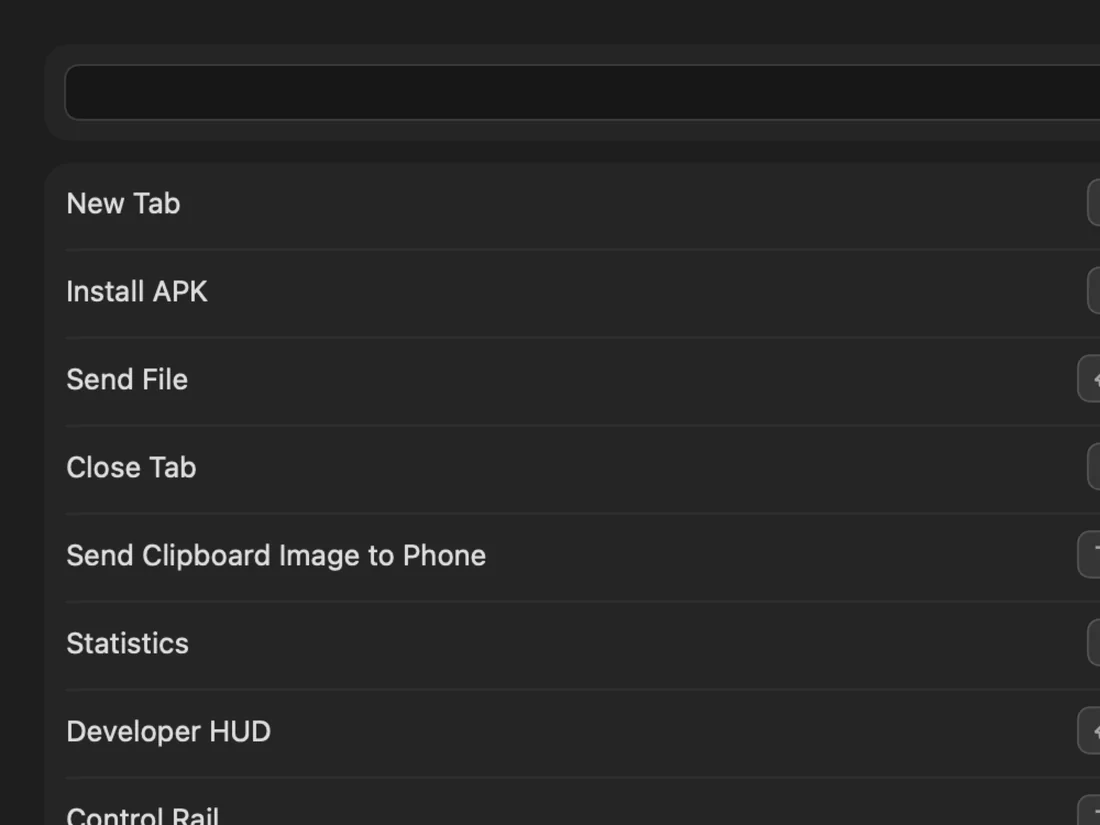
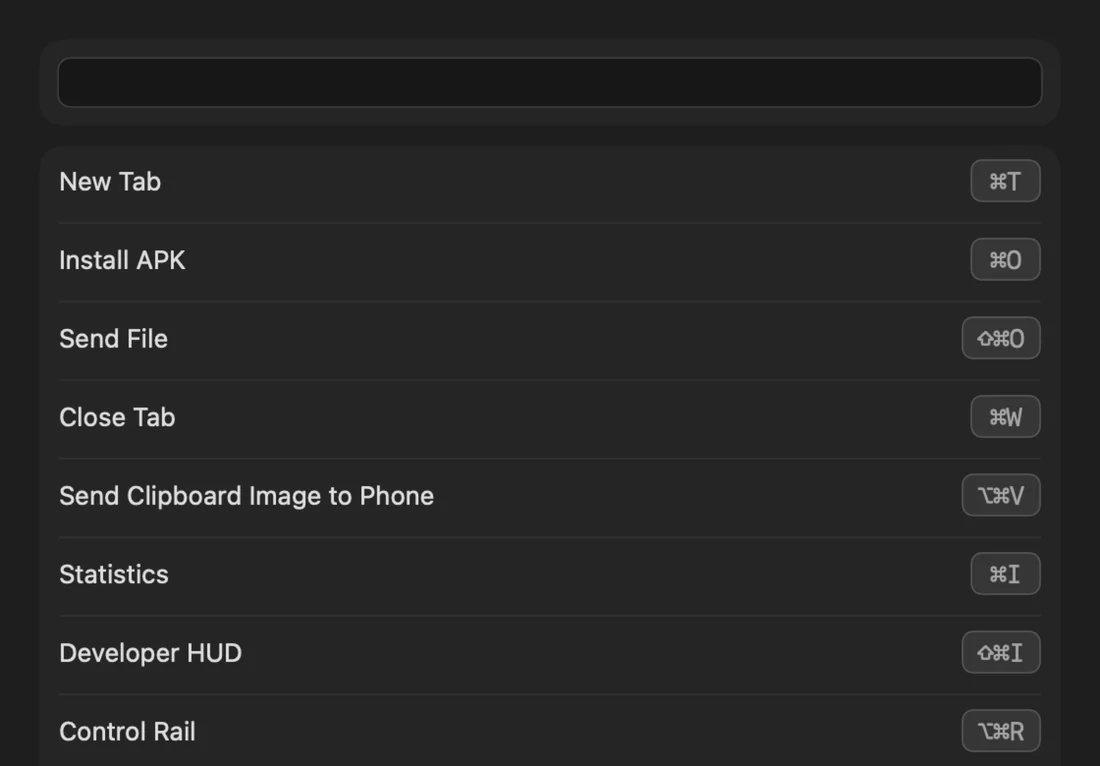
Website: Preview section with a landscape keymap editor, uncropped shortcuts, clearer wording, honest not-yet-released state

diff --git a/website/index.html b/website/index.html
@@ -114,7 +114,7 @@ if(s.variant==='b'||s.variant==='c')d.setAttribute('data-variant',s.variant);d.c
 <!-- ============ PLAYGROUND ============ -->
 <section class="play dark" id="coba">
   <div class="wrap">
-    <h2 class="head reveal"><span lang="id">Coba rasakan.</span><span lang="en">Get a feel for it.</span></h2>
+    <h2 class="head reveal"><span lang="id">Coba langsung.</span><span lang="en">Try it.</span></h2>
     <p class="lead reveal"><span lang="id">Klik layar di bawah, lalu gerak dengan <kbd>W</kbd><kbd>A</kbd><kbd>S</kbd><kbd>D</kbd> dan tembak dengan <kbd>Spasi</kbd>. Di layar sentuh, geser untuk bergerak.</span><span lang="en">Click the screen below, then move with <kbd>W</kbd><kbd>A</kbd><kbd>S</kbd><kbd>D</kbd> and fire with <kbd>Space</kbd>. On touch screens, drag to move.</span></p>
     <div class="sim reveal" id="sim">
       <div class="sim-win" id="simWin">
@@ -187,7 +187,7 @@ if(s.variant==='b'||s.variant==='c')d.setAttribute('data-variant',s.variant);d.c
 <!-- ============ DEV BENTO ============ -->
 <section class="bento-sec dark">
   <div class="wrap">
-    <h2 class="head reveal"><span lang="id">Meja kerja developer.</span><span lang="en">A developer's workbench.</span></h2>
+    <h2 class="head reveal"><span lang="id">Alat untuk developer.</span><span lang="en">Tools for developers.</span></h2>
     <div class="bento">
       <article class="card span2 reveal">
         <header><h3>Logcat</h3><p><span lang="id">Ikuti aplikasi yang di depan, filter level dan teks. Crash dan ANR ditandai sebagai blok.</span><span lang="en">Follows the app in front, with level and text filters. Crashes and ANRs are highlighted as blocks.</span></p></header>
@@ -231,22 +231,22 @@ if(s.variant==='b'||s.variant==='c')d.setAttribute('data-variant',s.variant);d.c
 <!-- ============ REAL SCREENS ============ -->
 <section class="real-sec" id="asli">
   <div class="wrap">
-    <h2 class="head reveal"><span lang="id">Tampilan aslinya.</span><span lang="en">The real thing.</span></h2>
-    <p class="lead reveal"><span lang="id">Ini tampilan aplikasi sebenarnya, diambil dari kode yang sama dengan aplikasinya dan berisi data contoh. Isi layar ponsel selalu gambar tiruan.</span><span lang="en">These are the app's own screens, rendered by the same code as the app with sample data. Phone screens are always stand-in pictures.</span></p>
+    <h2 class="head reveal"><span lang="id">Pratinjau.</span><span lang="en">Preview.</span></h2>
+    <p class="lead reveal"><span lang="id">Cuplikan layar dari aplikasinya sendiri, dengan data contoh. Isi layar ponsel selalu gambar tiruan.</span><span lang="en">Screens from the app itself, with sample data. Phone screens are always stand-in pictures.</span></p>
     <div class="seg reveal" role="tablist" data-tabs>
-      <button type="button" role="tab" aria-selected="true" aria-controls="r-connect" id="t-rconnect"><span lang="id">Mulai</span><span lang="en">Start</span></button>
+      <button type="button" role="tab" aria-selected="true" aria-controls="r-connect" id="t-rconnect">Connect</button>
       <button type="button" role="tab" aria-selected="false" aria-controls="r-keymap" id="t-rkeymap">Keymap</button>
       <button type="button" role="tab" aria-selected="false" aria-controls="r-keys" id="t-rkeys"><span lang="id">Pintasan</span><span lang="en">Shortcuts</span></button>
       <button type="button" role="tab" aria-selected="false" aria-controls="r-log" id="t-rlog">Logcat</button>
     </div>
     <div class="shot-panel" role="tabpanel" id="r-connect" aria-labelledby="t-rconnect">
-      <figure class="shot win tall"><div class="bar"><i></i><i></i><i></i><span>Benz Mirror</span></div><img src="assets/img/ui/connect.webp" width="1120" height="1800" alt="" loading="lazy" decoding="async"><figcaption><span lang="id">Pilih preset kualitas, nyalakan OBS, dan mulai.</span><span lang="en">Choose a quality preset, turn on OBS and start.</span></figcaption></figure>
+      <figure class="shot win tall"><div class="bar"><i></i><i></i><i></i><span>Benz Mirror</span></div><img src="assets/img/ui/connect.webp" width="1120" height="1800" alt="" loading="lazy" decoding="async"><figcaption><span lang="id">Pilih preset kualitas dan nyalakan OBS.</span><span lang="en">Choose a quality preset and turn on OBS.</span></figcaption></figure>
     </div>
     <div class="shot-panel" role="tabpanel" id="r-keymap" aria-labelledby="t-rkeymap" hidden>
-      <figure class="shot win tall"><div class="bar"><i></i><i></i><i></i><span>Keymap</span></div><img src="assets/img/ui/keymap.webp" width="1400" height="1785" alt="" loading="lazy" decoding="async"><figcaption><span lang="id">Seret tiap kontrol ke layar ponsel, lalu pilih tombolnya.</span><span lang="en">Drag each control onto the phone screen, then choose its key.</span></figcaption></figure>
+      <figure class="shot win wide"><div class="bar"><i></i><i></i><i></i><span>Keymap</span></div><img src="assets/img/ui/keymap.webp" width="1600" height="582" alt="" loading="lazy" decoding="async"><figcaption><span lang="id">Editor keymap untuk game landscape: seret tiap kontrol, lalu pilih tombolnya.</span><span lang="en">The keymap editor on a landscape game: drag each control, then choose its key.</span></figcaption></figure>
     </div>
     <div class="shot-panel" role="tabpanel" id="r-keys" aria-labelledby="t-rkeys" hidden>
-      <figure class="shot win"><div class="bar"><i></i><i></i><i></i><span><span lang="id">Pengaturan › Pintasan</span><span lang="en">Settings › Shortcuts</span></span></div><img src="assets/img/ui/shortcuts.webp" width="1100" height="825" alt="" loading="lazy" decoding="async"><figcaption><span lang="id">Setiap pintasan menu bisa diubah.</span><span lang="en">Every menu shortcut can be changed.</span></figcaption></figure>
+      <figure class="shot win"><div class="bar"><i></i><i></i><i></i><span><span lang="id">Pengaturan › Pintasan</span><span lang="en">Settings › Shortcuts</span></span></div><img src="assets/img/ui/shortcuts.webp" width="1100" height="766" alt="" loading="lazy" decoding="async"><figcaption><span lang="id">Setiap pintasan menu bisa diubah.</span><span lang="en">Every menu shortcut can be changed.</span></figcaption></figure>
     </div>
     <div class="shot-panel" role="tabpanel" id="r-log" aria-labelledby="t-rlog" hidden>
       <figure class="shot win wide"><div class="bar"><i></i><i></i><i></i><span>Logcat</span></div><img src="assets/img/ui/logcat.webp" width="1400" height="404" alt="" loading="lazy" decoding="async"><figcaption><span lang="id">Crash ditandai sebagai blok yang mudah dikenali.</span><span lang="en">Crashes are marked as blocks that are easy to spot.</span></figcaption></figure>
@@ -457,6 +457,7 @@ if(s.variant==='b'||s.variant==='c')d.setAttribute('data-variant',s.variant);d.c
     <div class="cta reveal">
       <a class="btn" href="https://github.com/RohmanBenyRiyanto" rel="noopener author">GitHub</a>
       <a class="btn ghost" href="https://github.com/RohmanBenyRiyanto/Mobile-Mirroring/tree/release/development" rel="noopener"><span lang="id">Kode sumber</span><span lang="en">Source code</span></a>
+      <a class="btn ghost" href="https://github.com/RohmanBenyRiyanto/Mobile-Mirroring/issues" rel="noopener"><span lang="id">Laporkan masalah</span><span lang="en">Report an issue</span></a>
     </div>
   </div>
 </section>

diff --git a/website/assets/js/site.js b/website/assets/js/site.js
@@ -572,6 +572,7 @@
         [date(v.date), size(v.size), v.source === 'release' ? 'GitHub Releases' : t('File di repositori', 'File in the repository')]
           .filter(Boolean).forEach(function (x) { facts.appendChild(el('li', '', x)); });
         box.appendChild(facts);
+        if (v.pre) box.appendChild(el('p', 'note', t('Ini versi beta: sudah dicoba terutama di satu ponsel, jadi mungkin masih ada bagian yang kasar.', 'This is a beta. It has been tried mostly on one phone, so some parts may still be rough.')));
         var a = link('btn big', v.url, t('Unduh ', 'Download ') + v.file);
         a.id = 'dlMain';
         box.appendChild(a);
@@ -583,12 +584,12 @@
         var p = el('p'); p.appendChild(link('', '#install', t('Setelah diunduh, ikuti cara install', 'After downloading, follow the install steps')));
         box.appendChild(p);
       } else if (data.state === 'empty') {
-        box.appendChild(el('div', 'dl-ver', t('Rilis pertama segera hadir', 'The first release is coming')));
-        box.appendChild(el('p', '', t('Belum ada DMG yang diterbitkan. Sementara itu, aplikasinya bisa dibuild sendiri dari kode sumber dengan Xcode.',
-          'No DMG has been published yet. Until then you can build the app from source with Xcode.')));
+        box.appendChild(el('div', 'dl-ver', t('Beta pertama sedang disiapkan', 'The first beta is being prepared')));
+        box.appendChild(el('p', '', t('Belum ada DMG yang diterbitkan. Pantau halaman rilis, atau bangun sendiri dari kode sumber dengan Xcode (panduannya ada di docs/developers).',
+          'No DMG has been published yet. Watch the releases page, or build it yourself from the source with Xcode (the guide is in docs/developers).')));
         var row = el('div', 'cta');
-        row.appendChild(link('btn big', R.web + '/tree/' + window.BENZ_CONFIG.folder.branch, t('Lihat kode sumber', 'View the source')));
-        row.appendChild(link('btn big ghost', R.web + '/releases', t('Halaman rilis', 'Releases page')));
+        row.appendChild(link('btn big', R.web + '/releases', t('Halaman rilis', 'Releases page')));
+        row.appendChild(link('btn big ghost', R.web + '/tree/release/development/docs/developers', t('Panduan membangun', 'Build guide')));
         box.appendChild(row);
       } else {
         box.appendChild(el('p', '', t('Info rilis tidak bisa dimuat sekarang (jaringan, atau batas permintaan GitHub). Unduh langsung dari GitHub.',
@@ -602,10 +603,10 @@
       $$('[data-dl]').forEach(function (a) {
         a.href = v ? v.url : '#download';
         var label = $('[data-dl-label]', a);
-        label.textContent = data && data.state === 'empty' ? t('Status rilis', 'Release status') : t('Unduh untuk Mac', 'Download for Mac');
+        label.textContent = data && data.state === 'empty' ? t('Segera hadir', 'Coming soon') : t('Unduh untuk Mac', 'Download for Mac');
       });
       $('[data-dl-meta]').textContent = v ? t('Versi ', 'Version ') + v.version + (size(v.size) ? ' · ' + size(v.size) : '') : '';
-      var file = v ? v.file : window.BENZ_CONFIG.assetName;
+      var file = v ? v.file : 'Benz-Mirror-<' + t('versi', 'version') + '>.dmg';
       $$('[data-file]').forEach(function (n) { n.textContent = file; });
       var cmd = 'shasum -a 256 ~/Downloads/' + file;
       $('[data-sum-cmd]').textContent = cmd;

diff --git a/Packages/Features/Tests/KeymapFeatureTests/KeymapEditorSnapshotTests.swift b/Packages/Features/Tests/KeymapFeatureTests/KeymapEditorSnapshotTests.swift
@@ -62,4 +62,25 @@ final class KeymapEditorSnapshotTests: XCTestCase {
         let image = try renderSnapshot(editorScene(editor), size: CGSize(width: 680, height: 867), name: "editor-dark", appearance: .darkAqua)
         XCTAssertFalse(isBlankImage(image))
     }
+
+    /// A landscape game: the picture on the left with the toolbar over it and the profiles panel on the right, as in the app.
+    func testTheEditorRendersForALandscapeGame() throws {
+        let editor = try exampleEditor()
+        editor.selection = editor.keymap.elements.first?.id
+        let scene = HStack(spacing: 0) {
+            ZStack {
+                LinearGradient(colors: [Color(red: 0.07, green: 0.16, blue: 0.40), Color(red: 0.02, green: 0.05, blue: 0.16)], startPoint: .top, endPoint: .bottom)
+                Circle().fill(Color(red: 1, green: 0.93, blue: 0.7).opacity(0.85)).frame(width: 90, height: 90).offset(x: 220, y: -120)
+                Ellipse().fill(Color(red: 0.05, green: 0.2, blue: 0.5)).frame(width: 900, height: 260).offset(x: -150, y: 230)
+                KeymapEditorOverlay(editor: editor, videoSize: CGSize(width: 2340, height: 1080))
+            }
+            .frame(width: 1040, height: 480)
+            .overlay(alignment: .top) { KeymapEditorToolbar(editor: editor, isRecordingMacro: false, onMacro: {}, onDone: {}) }
+            KeymapEditorPanel(editor: editor, foreground: ForegroundAppDetector(), message: nil,
+                              profiles: [ProfileSummary(id: "a", name: "Magic Chess", modified: Date()), ProfileSummary(id: "b", name: "Skyline Arena", modified: Date())],
+                              onSave: {}, onClose: { _ in })
+        }
+        let image = try renderSnapshot(scene.tint(Color(red: 0.04, green: 0.52, blue: 1)), size: CGSize(width: 1320, height: 480), name: "editor-landscape", appearance: .darkAqua)
+        XCTAssertFalse(isBlankImage(image))
+    }
 }
